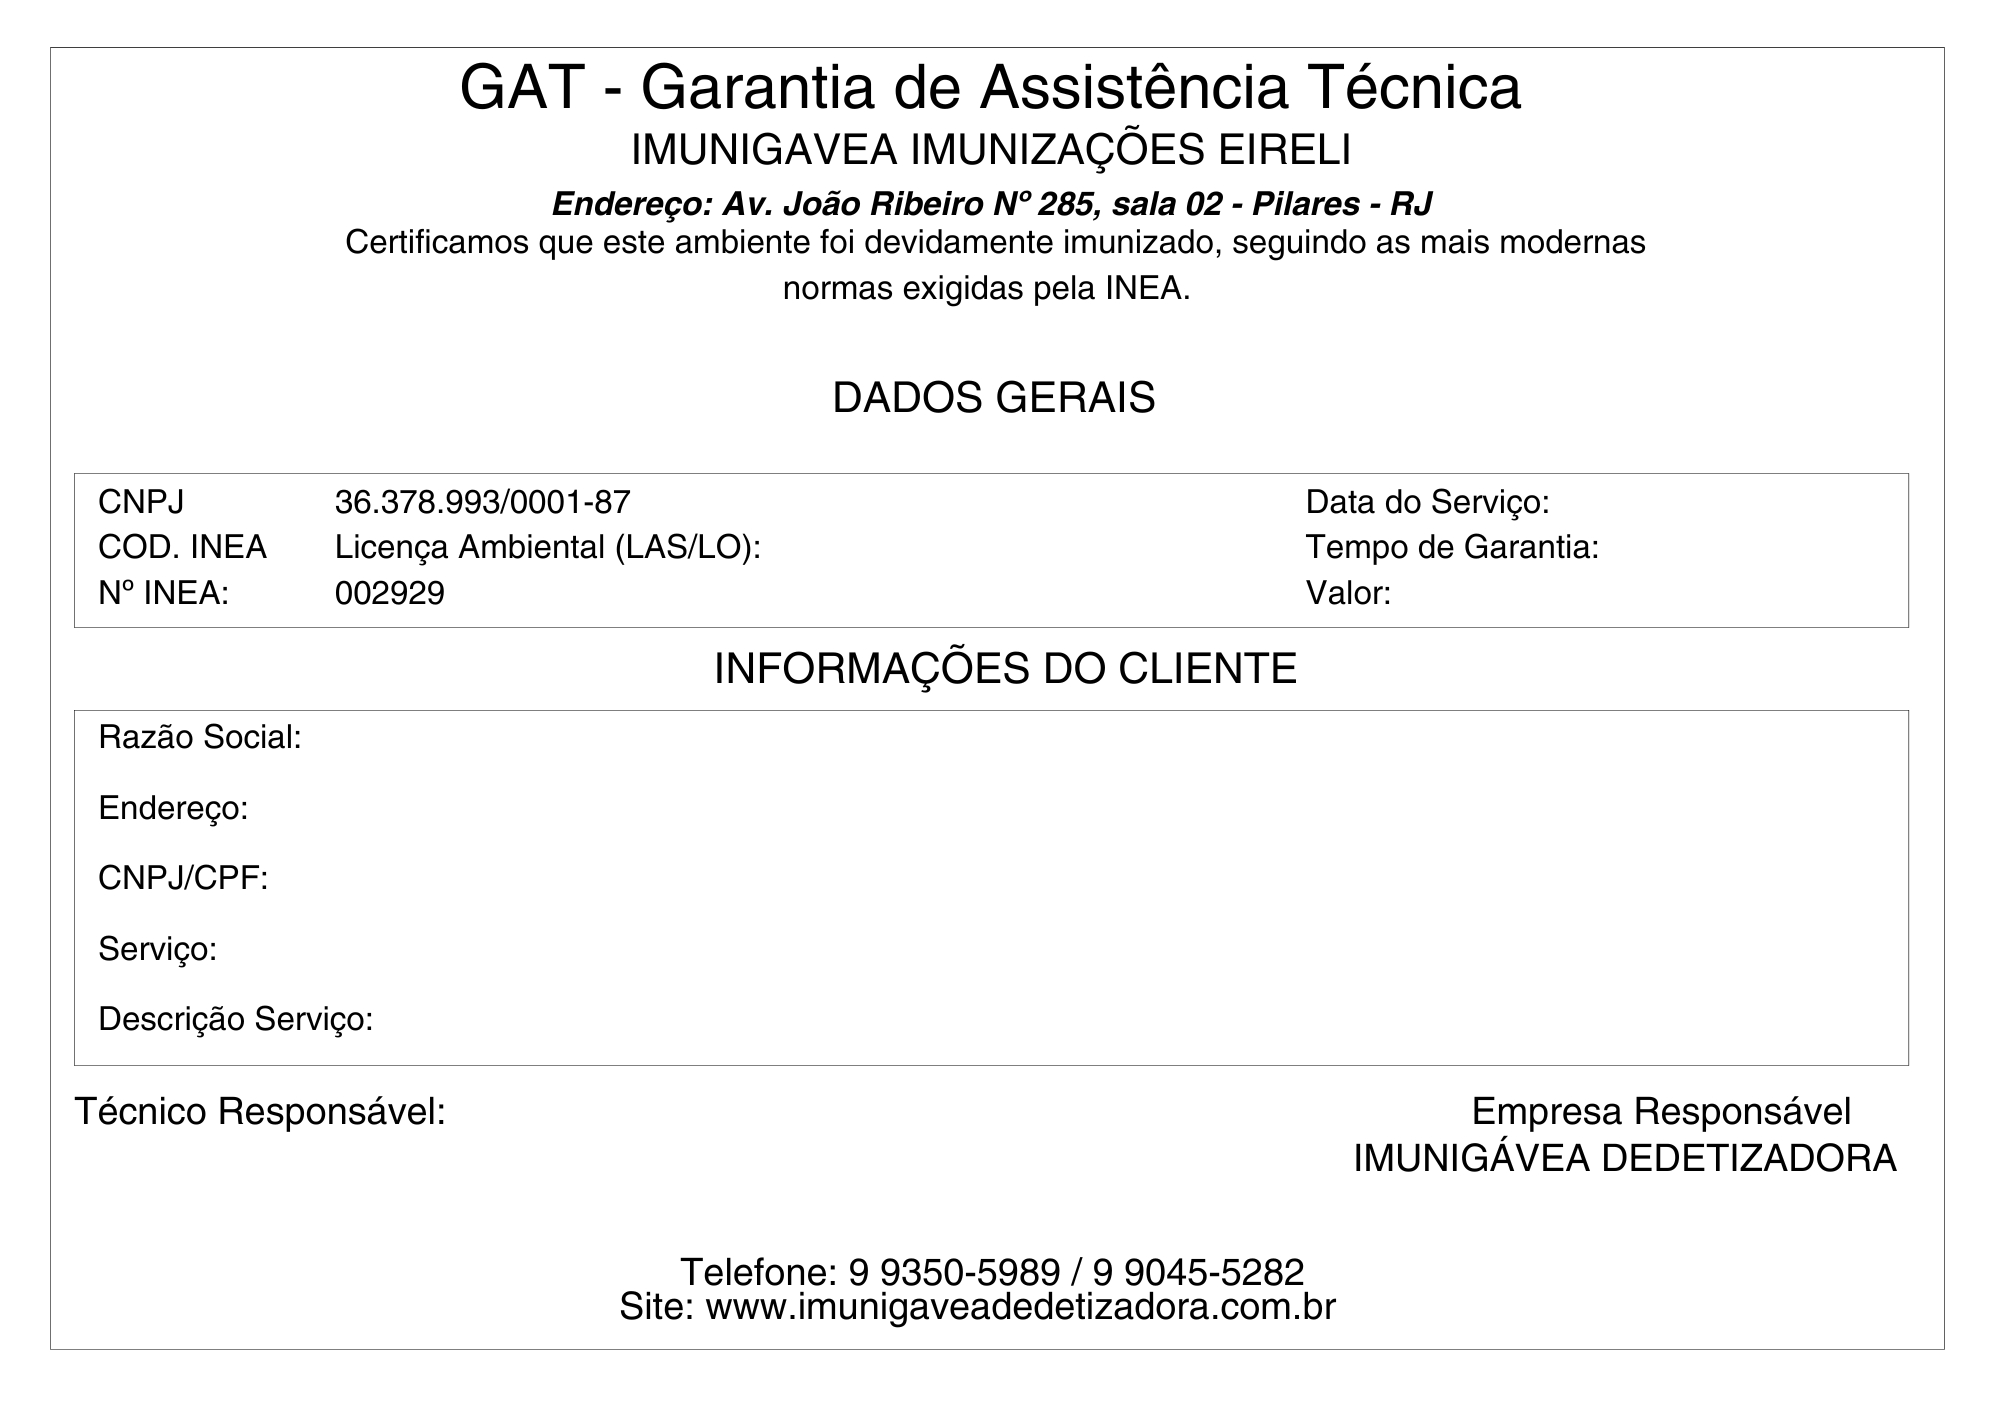
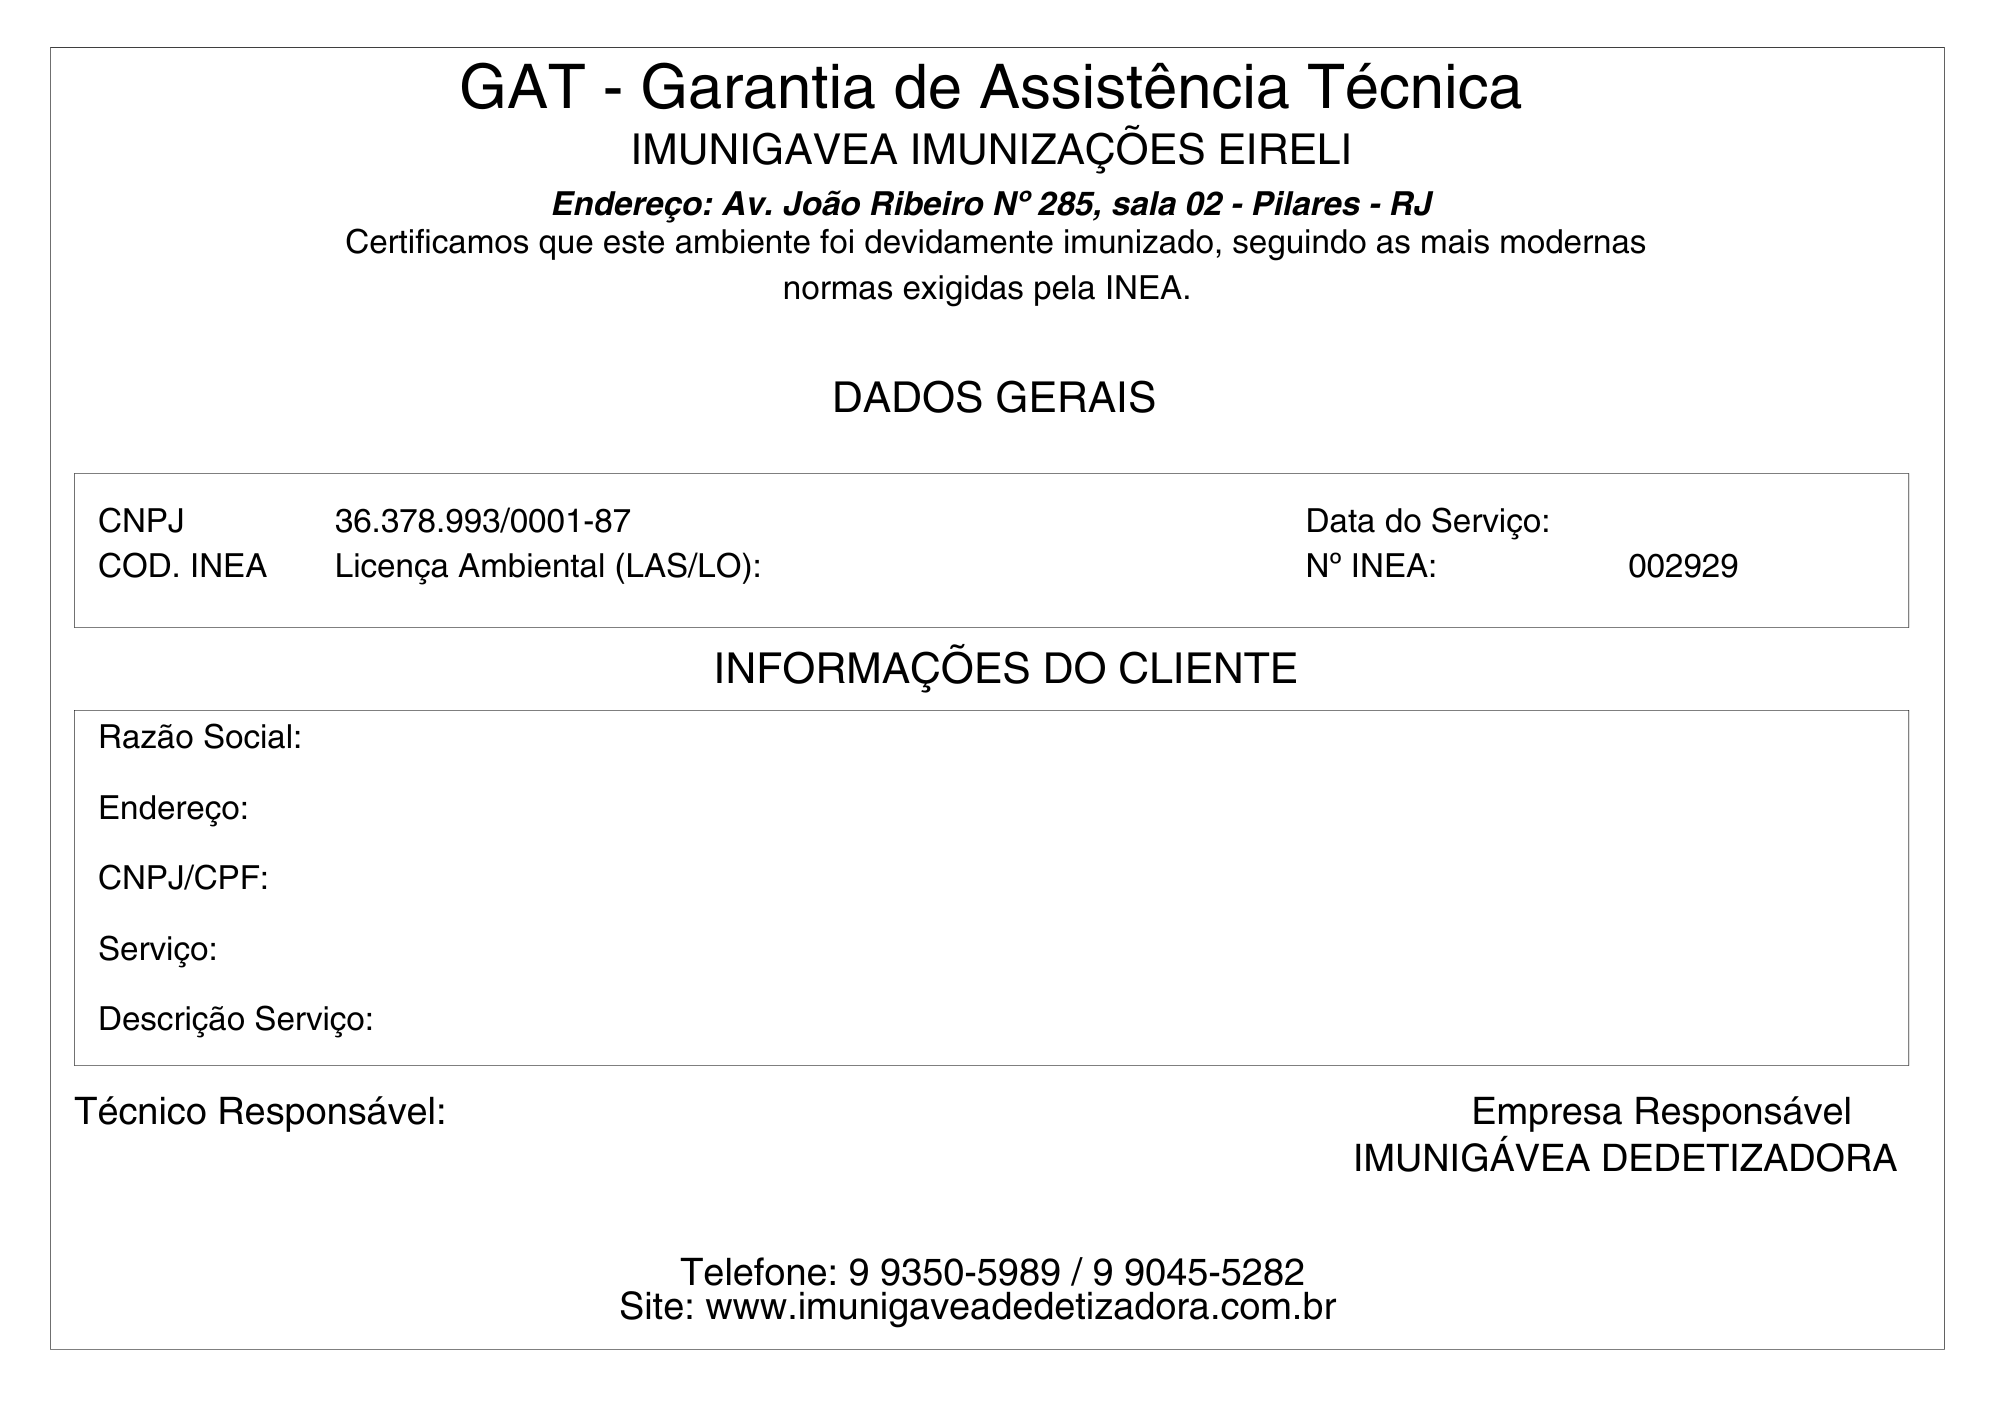
imagem e garantia Imuni

Changed region(s): [[0.031, 0.3433, 0.372, 0.4369], [0.651, 0.3433, 0.868, 0.4369]]

diff --git a/src/pages/ImuniGarantia.js b/src/pages/ImuniGarantia.js
@@ -37,17 +37,13 @@ export default function ImuniGarantia() {
     const estabelecimento = inputs[0].value;
 
     
-    const data = inputs[6].value;
+    const data = inputs[5].value;
     const partes = data.split("-");
     const dataFormatada = `${partes[2]}/${partes[1]}/${partes[0]}`;
     
     doc.setFont("helvetica", "normal");
     doc.setFontSize(18);
-    doc.text(`${dataFormatada}`, 700, 217);
-    
-    doc.setFont("helvetica", "normal");
-    doc.setFontSize(18);
-    doc.text(`${inputs[5].value}`, 700, 236);
+    doc.text(`${dataFormatada}`, 686, 225);
 
     doc.setFont("helvetica", "normal");
     doc.setFontSize(18);
@@ -85,7 +81,6 @@ export default function ImuniGarantia() {
         <input className="input" style={styles.input} type="text" placeholder="CPF/CNPJ" />
         <input className="input" style={styles.input} type="text" placeholder="Serviço" />
         <input className="input" style={styles.input} type="text" placeholder="Descrição do Serviço" />
-        <input className="input" style={styles.input} type="text" placeholder="Tempo de Garantia" />
         <input className="input" style={styles.input} type="date" placeholder="Data do Serviço" />
       </div>
 
